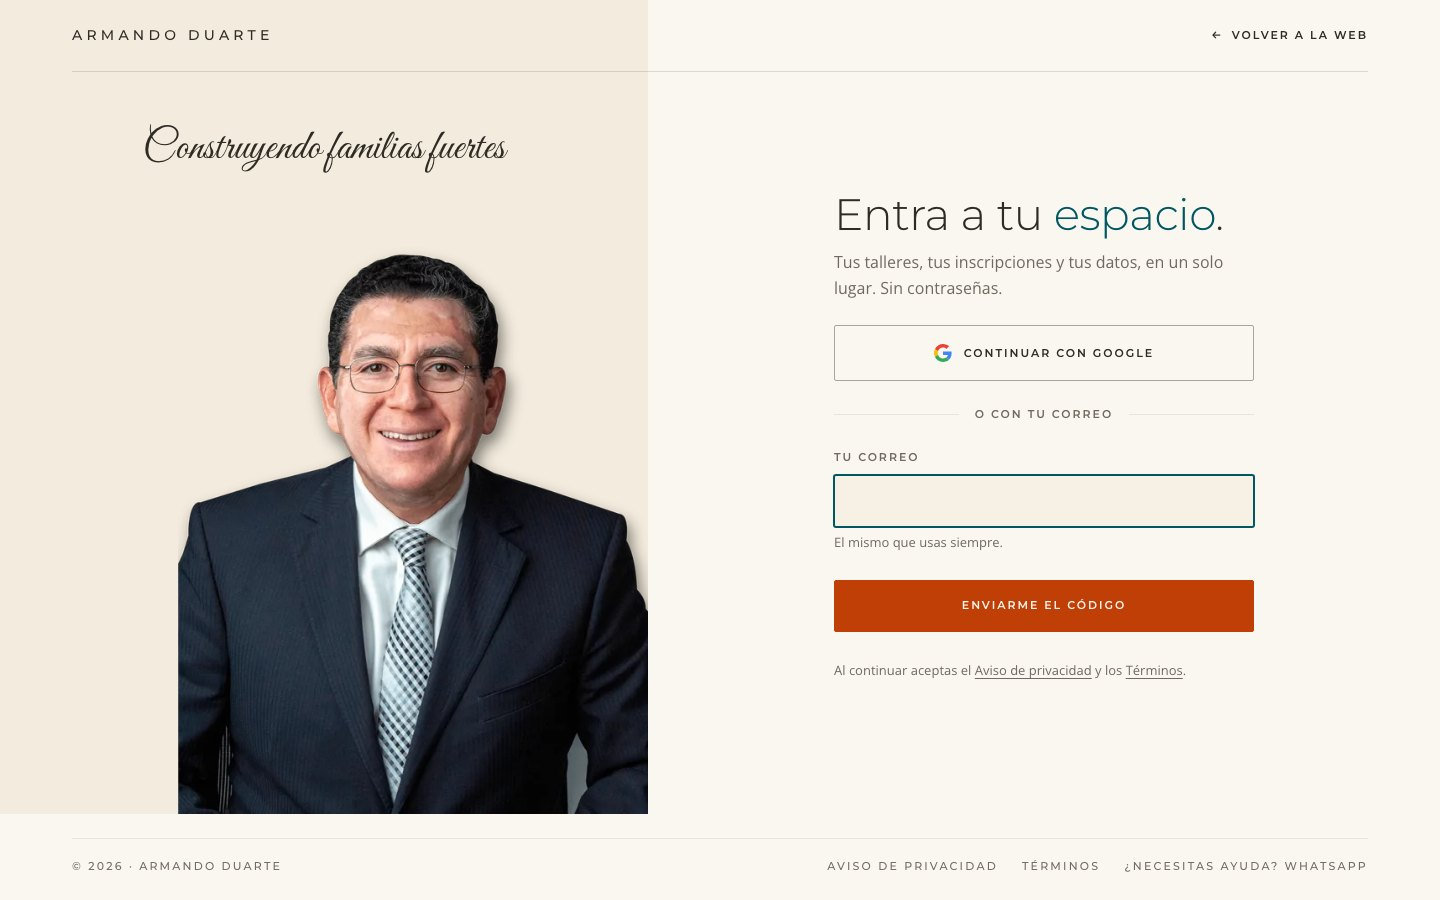
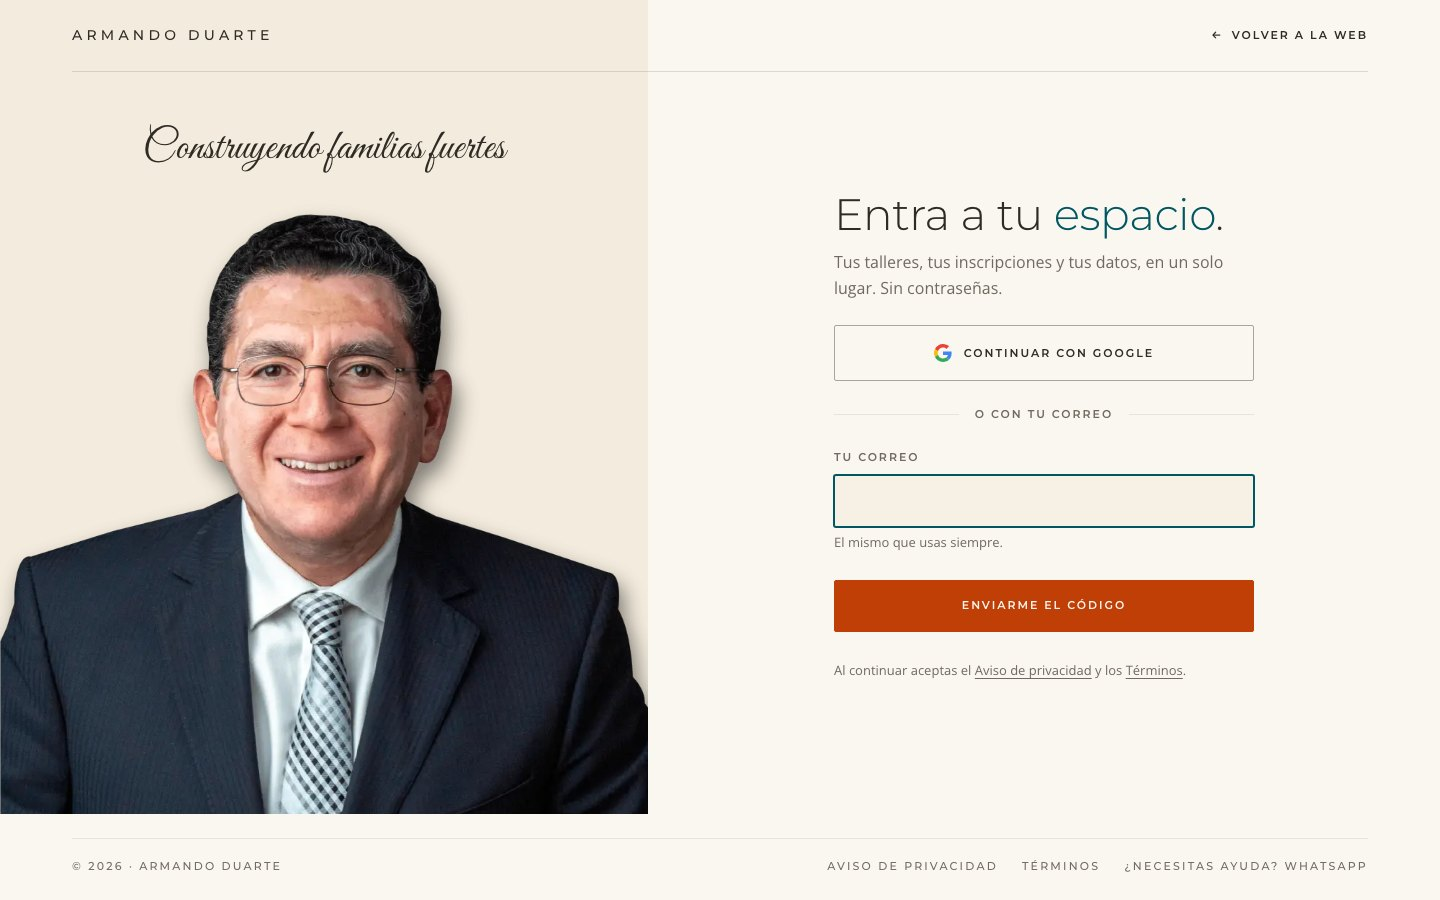
fix(familia): el busto de /entrar llena el panel, sin corte del brazo (#18, decisión 2 del PR #32)
- Recorte de 900 (67 KB) en lugar del de 560: la foto termina en seco en los
  dos brazos, y a 1440 el izquierdo quedaba a la vista.
- La foto llena el panel de borde a borde en una caja que toma el espacio
  bajo la firma (object-fit: cover, anclada arriba) y no aporta altura: la
  primera vuelta a width:100% estiraba la página a 1073 px en 900.
- Captura nueva: zoom-brazo-izquierdo-1440.jpg.

Gate: 381 declarados, 0 saltados.

Changed region(s): [[0.0, 0.2178, 0.4688, 0.9022]]

diff --git a/apps/familia/src/estilos.css b/apps/familia/src/estilos.css
@@ -111,13 +111,22 @@ img,svg{display:block;max-width:100%}
 /* La firma, en la Great Vibes de la web. En `--tinta` y no en naranja: en esta
    pantalla el naranja es del botón y de nadie más (D26). */
 .panel__firma{font-family:var(--script);font-weight:400;font-size:var(--script-size);line-height:1.1;color:var(--tinta);text-align:center;padding:0 32px}
-/* El busto se apoya en el borde de abajo, y va contra el borde DERECHO del
-   panel: el archivo termina en seco en el hombro derecho (x = 560, desde la
-   mitad de la foto para abajo). Centrado, ese corte quedaba como una línea
-   vertical en medio del cálido; contra el borde, coincide con el cambio a
-   crema y se lee como un apoyo, no como un recorte — la misma regla que la
-   #19 (B) aplicó al borde de abajo en «Sobre el facilitador». */
-.panel__busto{width:min(86%,470px);height:auto;margin-top:32px;align-self:flex-end}
+/* El busto llena el panel de borde a borde (#18, decisión 2 del PR #32). La
+   foto termina en seco en los dos brazos: centrada o contra un solo borde,
+   alguno de los dos cortes quedaba a la vista como una línea en medio del
+   cálido. Llenando el ancho, el izquierdo coincide con el borde de la pantalla
+   y el derecho con el cambio a crema.
+
+   Y el panel NO decide la altura de la página. La primera versión ponía la
+   foto a `width:100%` en el flujo: a 1440 medía 782 px de alto, estiraba la
+   fila y mandaba el pie debajo del pliegue (la captura medía 1073 de 900). Por
+   eso la foto vive en una caja que toma **el espacio que queda** debajo de la
+   firma (`flex:1 1 0`, sin aportar altura propia) y la llena con
+   `object-fit:cover` anclado arriba: siempre cubre el ancho, la cabeza queda
+   entera, y lo que sobra se recorta abajo, contra la línea del pie — que es
+   donde un corte se lee como apoyo (la regla de la #19 B). */
+.panel__foto{position:relative;flex:1 1 0;min-height:0;width:100%;margin-top:32px}
+.panel__busto{position:absolute;inset:0;width:100%;height:100%;object-fit:cover;object-position:center top}
 
 .titulo{font-family:var(--display);font-weight:300;font-size:clamp(30px,3.4vw,44px);line-height:1.1;letter-spacing:-.01em;color:var(--tinta);text-wrap:balance}
 /* La palabra acentuada (B.2): teal, nunca naranja — el naranja es del botón. */

diff --git a/apps/familia/src/comun/Piezas.tsx b/apps/familia/src/comun/Piezas.tsx
@@ -79,8 +79,15 @@ function Cabecera() {
  * facilitador» de `/merida`.
  *
  * El busto es la imagen más pesada de la pantalla y, en escritorio, el LCP. Por
- * eso: **un solo WebP de 560** (42 KB; el panel nunca lo muestra a más de
- * ~470 px), `loading` normal y `fetchpriority="high"`. Con `alt` vacío porque
+ * eso: **un solo WebP**, `loading` normal y `fetchpriority="high"`.
+ *
+ * Es el recorte de **900** (67 KB) y no el de 560 (42 KB), por decisión de
+ * dirección (auditoría del PR #32, 30/9): la foto termina en seco en los dos
+ * brazos, y con el de 560 a ~470 px el corte del brazo izquierdo quedaba a la
+ * vista a 1440. Con el de 900 el busto ocupa **el ancho entero del panel** y
+ * los dos cortes coinciden con sus bordes. Premium primero: 25 KB más, en una
+ * pantalla que se visita una vez por sesión y que en el teléfono no la baja
+ * (`usar-ancho.ts`). Con `alt` vacío porque
  * es ambiente: el nombre de Armando ya lo dice el wordmark de al lado, y un
  * lector de pantalla no gana nada con oír «Armando Duarte» dos veces seguidas.
  *
@@ -92,15 +99,17 @@ function PanelDeArmando() {
   return (
     <aside className="panel" aria-hidden="true">
       <p className="panel__firma">{t('web:comun.marca.tagline')}</p>
-      <img
-        className="panel__busto"
-        src="/img/armando/medio-cuerpo-560.webp"
-        width={560}
-        height={676}
-        alt=""
-        fetchPriority="high"
-        decoding="async"
-      />
+      <div className="panel__foto">
+        <img
+          className="panel__busto"
+          src="/img/armando/medio-cuerpo-900.webp"
+          width={900}
+          height={1087}
+          alt=""
+          fetchPriority="high"
+          decoding="async"
+        />
+      </div>
     </aside>
   );
 }

diff --git a/docs/informes/18/LEEME.md b/docs/informes/18/LEEME.md
@@ -6,7 +6,7 @@ Orden Códice #18, «La entrada a la altura de la web». Rama `mi-espacio/04-la-
 
 ## Qué se hizo
 
-**A · dos mitades a ≥ 1100.** A la izquierda, el panel `--calido` a sangre, con «Construyendo familias fuertes» en Great Vibes y el busto (`medio-cuerpo`) apoyado en el borde de abajo. A la derecha, la columna de 420. Por debajo de 1100 el panel no se monta y queda el retrato circular de 64 px arriba del título. A 375 no hay scroll horizontal y el botón principal se ve sin desplazar (lo mide el script).
+**A · dos mitades a ≥ 1100.** A la izquierda, el panel `--calido` a sangre, con «Construyendo familias fuertes» en Great Vibes y el busto (`medio-cuerpo`, recorte de 900) llenando el panel de borde a borde, apoyado en la línea del pie. A la derecha, la columna de 420. Por debajo de 1100 el panel no se monta y queda el retrato circular de 64 px arriba del título. A 375 no hay scroll horizontal y el botón principal se ve sin desplazar (lo mide el script).
 
 **B · la columna, de arriba abajo.**
 - Cabecera con el wordmark y «← Volver a la web», los dos hacia `armandoduarte.com`.
@@ -79,5 +79,11 @@ El punto que falta **no está en las imágenes**. Medido sin retrato: 75. Sin re
    - (b) pedir otra vuelta sobre el marco.
 
    Ya se probaron las palancas de las imágenes.
-2. **El corte izquierdo del busto a ≥ 1100.** La foto termina en seco en los dos brazos. El derecho quedó contra el borde del panel y no se ve. El izquierdo, abajo, sí se ve (ver `01-entrar-correo-1440.jpg`). Se resuelve estirando la foto al ancho entero del panel, pero eso pide el recorte de 900 (67 KB contra 42) y la orden fija 560 como máximo.
-3. **El color de la firma.** Va en `--tinta` porque en esta pantalla el naranja es solo del botón (B.2). En el pie de la web es naranja. Si dirección la quiere en otro color, es un renglón.
+2. **El color de la firma.** Va en `--tinta` porque en esta pantalla el naranja es solo del botón (B.2). En el pie de la web es naranja. Si dirección la quiere en otro color, es un renglón.
+
+## Auditoría del CEO (30/9 02:05) · aplicada
+
+- **Performance 75: aceptado.** Firma en `--tinta`: se queda. El «Un momento…» eterno va en la orden #22.
+- **Decisión 2, el busto:** pasa al recorte de **900** (`medio-cuerpo-900.webp`, 67 KB; el de 560 se borró de `public/`). Ahora **llena el panel de borde a borde**: el corte del brazo izquierdo coincide con el borde de la pantalla y el del derecho con el cambio a crema. Se ve en `zoom-brazo-izquierdo-1440.jpg`, que es la esquina de abajo a la izquierda del panel al doble, con la línea del pie adentro.
+- **Lo que costó la primera vuelta, dicho:** con la foto a `width:100%` en el flujo, a 1440 medía 782 px de alto, estiraba la fila y mandaba el pie debajo del pliegue (la captura medía 1073 en una pantalla de 900). Ahora la foto vive en una caja que toma el espacio que queda debajo de la firma, sin aportar altura, y la llena con `object-fit:cover` anclada arriba. Las capturas vuelven a medir la pantalla exacta: 1440×900 y 1100×800.
+- El marco en el teléfono no cambia: a < 1100 el panel no se monta y el busto no se descarga (`usar-ancho.ts`).
